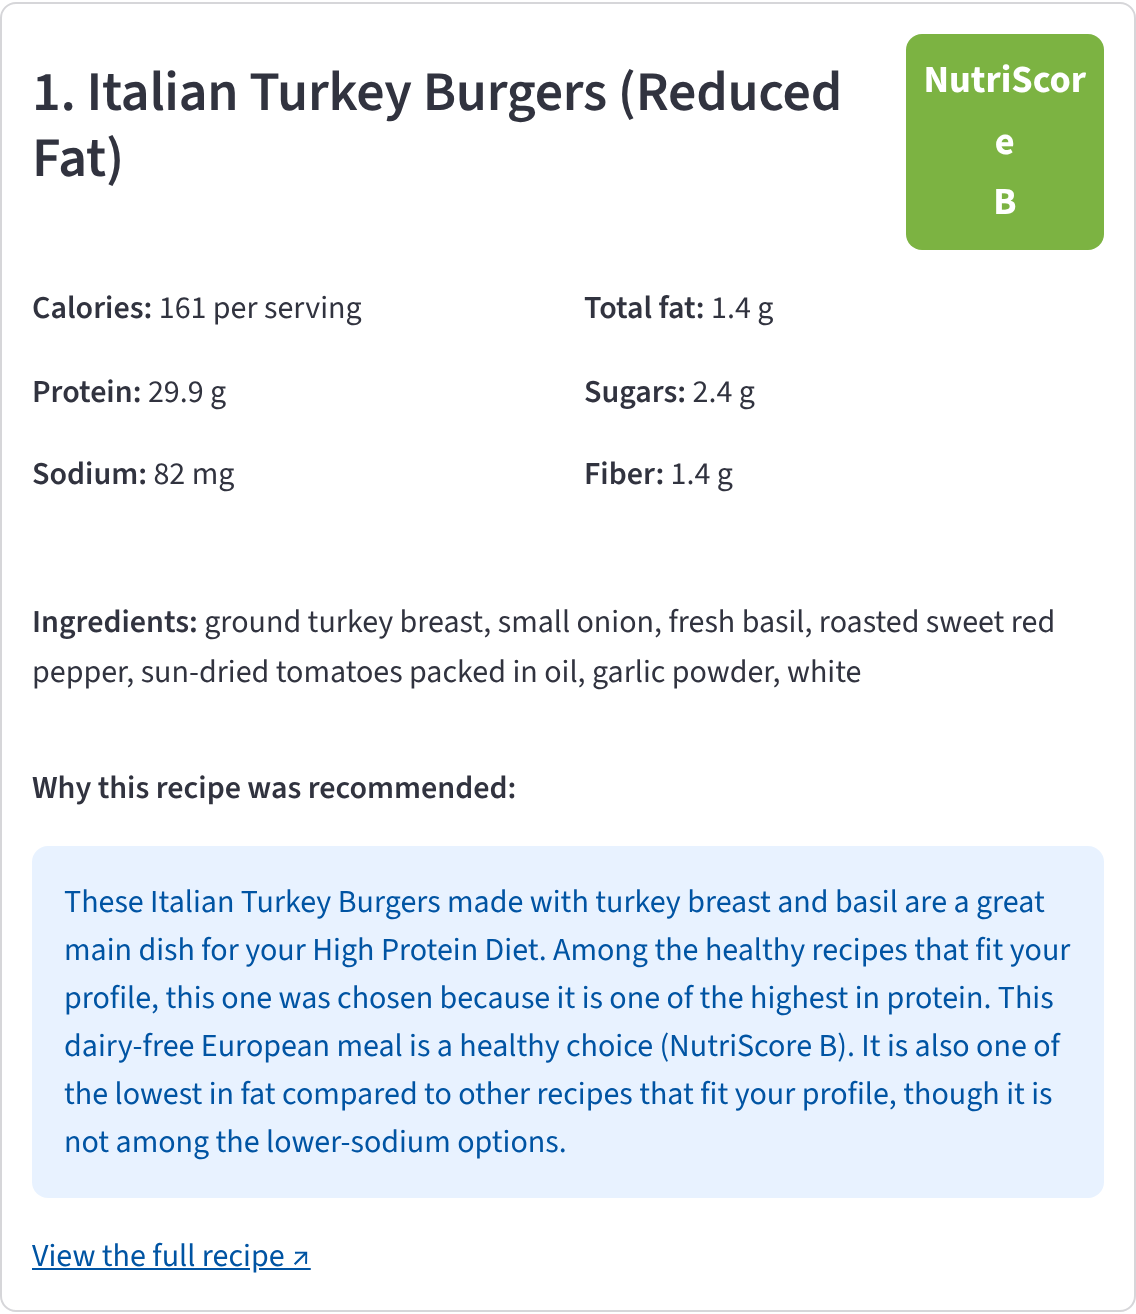
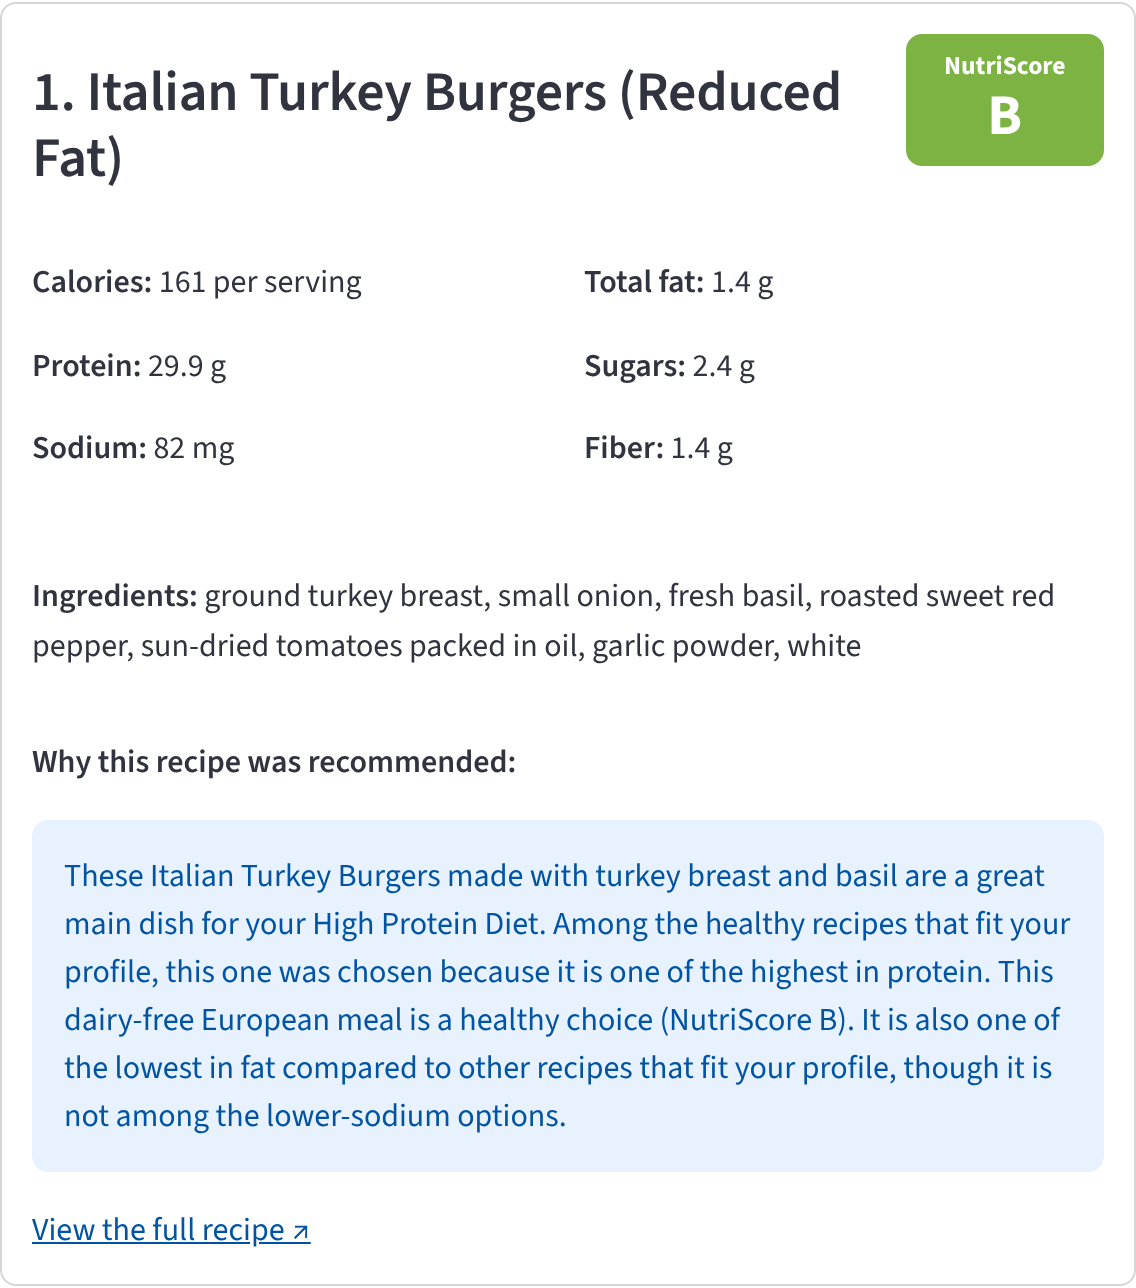
Rename notebook, update README

diff --git a/README.md b/README.md
@@ -1,136 +1,204 @@
-# Grounded LLM explanations for healthy food recommendations
+# LLM-Explanation
 
-Code and study materials for the master's thesis *Grounded LLM explanations for healthy food recommendations: a design science study of user perception and verification* 
-
-The project builds a recipe recommender that explains each recommendation in plain language with a large language model (LLM), checks every explanation against the facts it was generated from, and evaluates the explanations with users.
+Code and data for the master's thesis *Grounded LLM explanations for healthy food recommendations: a design science study of user perception and verification* 
+The repository holds a recipe recommender whose explanations are written by a large language model (LLM) and then checked, claim by claim, by two other LLMs acting as judges. It also holds the Streamlit app used in the user study. The explanations contain no numbers: exact nutrition values are shown in a separate panel, so every claim in the text can be checked against a single fact.
 
 ![Python 3.11](https://img.shields.io/badge/python-3.11-blue)
 ![Streamlit 1.57](https://img.shields.io/badge/streamlit-1.57-red)
 ![Licence: MIT](https://img.shields.io/badge/licence-MIT-green)
 
-## Contents
-
-- [Study design](#study-design)
-- [Repository structure](#repository-structure)
-- [The study application](#the-study-application)
-- [The pipeline notebook](#the-pipeline-notebook)
-- [Data](#data)
-- [Citation](#citation)
-- [Licence](#licence)
-
-## Study design
-
 ![Study design: the artefact, the human evaluation and the grounding verification](docs/images/study_design.png)
 
-The artefact recommends five recipes from the HUMMUS dataset to each of six personas, each with a distinct health goal. Gemma 4 31B writes a short explanation for every recommendation from a fixed set of verified facts. The explanations contain no numbers: exact nutrition values are shown in a separate panel instead.
+## Contents
 
-The explanations are evaluated in two layers:
+- [Choose how to start](#choose-how-to-start)
+- [Path 1: run the study app](#path-1-run-the-study-app)
+- [Path 2: read the pipeline](#path-2-read-the-pipeline)
+- [Path 3: re-run the pipeline](#path-3-re-run-the-pipeline)
+- [Layout](#layout)
+- [What is checked where](#what-is-checked-where)
+- [Data](#data)
+- [Limits](#limits)
+- [Troubleshooting](#troubleshooting)
+- [Use of generative AI](#use-of-generative-ai)
+- [Citing and licence](#citing-and-licence)
 
-1. **Human evaluation.** Participants answer one question about their main health goal, are matched to the persona with that goal, and rate that persona's five explanations on a twelve-item survey.
-2. **Grounding verification and judge validation.** Each explanation is split into claims. Two LLM judges from different model families check every claim against the facts given to the generator, and a third model decides their disagreements. The judges are then tested with 48 planted errors and against a blind annotation of 152 claims by three people.
+## Choose how to start
 
-## Repository structure
+| Path | You need | You get |
+| --- | --- | --- |
+| [1. Run the study app](#path-1-run-the-study-app) | Python 3.11 or later | The app exactly as participants used it, with the 30 frozen explanations |
+| [2. Read the pipeline](#path-2-read-the-pipeline) | A browser, or Jupyter | The full pipeline in one notebook, mapped to the thesis sections |
+| [3. Re-run the pipeline](#path-3-re-run-the-pipeline) | Python 3.11 or later, the HUMMUS recipe file, an OpenAI-compatible LLM endpoint and API keys | New recommendations, explanations and judge verdicts |
 
-```
-.
-├── app.py                        Welcome and consent page of the study app
-├── pages/
-│   ├── 1_Profile_Quiz.py         Health-goal question and persona matching
-│   ├── 2_Recommendations.py      Persona brief and five recipe cards
-│   ├── 3_Survey.py               Twelve-item survey and open question
-│   └── 4_Thank_You.py            Saves the response to Google Sheets
-├── data/
-│   └── explanations_FROZEN.csv   The 30 explanations shown to participants
-├── data_exploration.ipynb        The full pipeline, from data cleaning to judge validation
-├── docs/images/                  Figures used in this README
-├── requirements.txt              Packages for the study app
-└── requirements-notebook.txt     Additional packages for the notebook
-```
-
-## The study application
-
-The app is a multi-page Streamlit application. It is kept exactly as it was used in the study (September 2026).
-
-<p align="center">
-  <img src="docs/images/app_recipe_card.png" alt="A recipe card from the study application" width="460">
-</p>
-
-<p align="center"><em>A recipe card for the high-protein persona: Nutri-Score badge, exact nutrition values, ingredients and the number-free explanation.</em></p>
-
-### Run it locally
+## Path 1: run the study app
 
 ```bash
-git clone https://github.com/dansaari/Food-explainer.git
-cd Food-explainer
+git clone https://github.com/dansaari/LLM-Explanation.git
+cd LLM-Explanation
 python -m venv venv
 source venv/bin/activate          # on Windows: venv\Scripts\activate
 pip install -r requirements.txt
 streamlit run app.py
 ```
 
-The app reads its explanations from `data/explanations_FROZEN.csv`, so it runs without any API keys. Saving responses needs a Google service account. Without one, the app runs normally and the last page reports that the response could not be saved. To enable saving, copy `.streamlit/secrets.toml.example` to `.streamlit/secrets.toml` and fill in your own values. The secrets file is excluded from version control.
+The app opens in your browser. Going through it takes 7 to 10 minutes:
 
-## The pipeline notebook
+1. **Welcome and consent** (`app.py`)
+2. **Profile quiz** (`pages/1_Profile_Quiz.py`): one question about your main health goal, which matches you to the persona with that goal
+3. **Recommendations** (`pages/2_Recommendations.py`): the persona's profile and five recipe cards, each with a Nutri-Score badge, nutrition values, ingredients and the explanation
+4. **Survey** (`pages/3_Survey.py`): twelve statements rated on a five-point scale, plus one open question
+5. **Thank you** (`pages/4_Thank_You.py`): saves the response
 
-`data_exploration.ipynb` contains the whole pipeline. Its sections map to the thesis as follows.
+<p align="center">
+  <img src="docs/images/app_recipe_card.png" alt="A recipe card from the study application" width="460">
+</p>
 
-| Notebook section | What it does | Thesis |
+The app reads its explanations from `data/explanations_FROZEN.csv`, so it needs no API keys. It is kept exactly as it was used in the study (September 2026).
+
+Saving responses needs a Google service account. Without one, the app still runs, and the last page reports that the response could not be saved. To enable saving, copy `.streamlit/secrets.toml.example` to `.streamlit/secrets.toml` and fill in your own values.
+
+## Path 2: read the pipeline
+
+`LLM_explanation` contains the whole pipeline, from loading the recipes to validating the judges. GitHub displays it directly. The outputs are cleared, so it shows the code and its explanations but not the printed results.
+
+| Section | What it does | Thesis |
 | --- | --- | --- |
-| 1 to 2 | Load and clean HUMMUS | 3.4.1 |
-| 3 to 6 | Tag mappings, personas, recommender, diversity check | 3.4.2, Appendix 1 |
-| 7 | Explanation generation (30 study and 72 validation explanations) | 3.4.3 |
-| 8 | Functional tests of the hard constraints | Appendix 1 |
-| 9 to 13 | Judge setup, claim-level judging, grounding verdicts, agreement | 3.4.4, 3.5.2, 4.3 |
+| 1 to 2 | Load and clean the HUMMUS recipes | 3.4.1 |
+| 3 to 6 | Tag mappings, the six personas, the recommender, diversity check | 3.4.2, Appendix 1 |
+| 7 | Fact extraction and explanation generation (30 study and 72 validation explanations) | 3.4.3 |
+| 8 | Functional tests of the recommender's hard constraints | Appendix 1 |
+| 9 to 13 | Judge setup, claim-level judging, grounding verdicts, agreement between judges | 3.4.4, 3.5.2, 4.3 |
 | 14 | Adversarial cases with planted errors | 3.5.2, 4.4.4 |
 | 15 | Freezing the study set | 3.4.3 |
-| 16 | Annotation workbook, development findings, third judge | 3.5.2, 4.4 |
+| 16 | Annotation workbook, development findings, third model for disagreements | 3.5.2, 4.4 |
 
-### Models
+The 30 explanations participants saw are in `data/explanations_FROZEN.csv`, together with the facts each was generated from (key ingredients, dish type, goal ranking, cuisine match, optional facts) and the nutrition values shown in the app.
 
-All models were accessed through Lehmus AI, an OpenAI-compatible gateway provided by the university.
+## Path 3: re-run the pipeline
 
-| Role | Model | Settings |
-| --- | --- | --- |
-| Generator | Gemma 4 31B | Default temperature; one model for the whole set |
-| Judge 1 | Qwen3.6-35B-A3B | Temperature 0 |
-| Judge 2 | GPT-OSS 120B | Temperature 0 |
-| Third model for disagreements | Muse-Glimmer-30B-NVFP4 | Temperature 0 |
-
-LLM output varies between runs, so a re-run will not reproduce the frozen explanations word for word.
-
-### Run it
+**1. Install the packages.**
 
 ```bash
 pip install -r requirements.txt -r requirements-notebook.txt
 ```
 
-Create a `.env` file in the repository root (excluded from version control):
+**2. Add the recipe data.** Download `pp_recipes.csv` from the [HUMMUS data set repository](https://gitlab.com/felix134/connected-recipe-data-set) and place it in `data/`.
+
+**3. Add your API keys.** Create a `.env` file in the repository root. It is excluded from version control.
 
 ```
 LEHMUS_API_KEY=...
 LEHMUS_BASE_URL=...
-LEHMUS_API_KEY_2=...      # only needed for the third model in section 16
+LEHMUS_API_KEY_2=...      # only for the third model in section 16
 ```
 
-Then place the HUMMUS recipe file in `data/` (see below) and run the notebook from the top.
+**4. Point the notebook at your models.** The study used Lehmus AI, an OpenAI-compatible gateway provided by the university that is not publicly accessible. To use another endpoint, set its URL as `LEHMUS_BASE_URL` and change the model IDs here:
+
+| Role | Model in the study | Where to change it |
+| --- | --- | --- |
+| Generator | Gemma 4 31B | `GENERATION_MODEL`, section 7 |
+| Judge 1 | Qwen3.6-35B-A3B | `JUDGE_MODELS['qwen']`, section 9 |
+| Judge 2 | GPT-OSS 120B | `JUDGE_MODELS['gpt-oss']`, section 9 |
+| Third model for disagreements | Muse-Glimmer-30B-NVFP4 | `THIRD_JUDGE_MODEL`, section 16 |
+
+The judges run at temperature 0. The generator uses the endpoint's default temperature.
+
+**5. Run the notebook from the top.** Each section writes its output to `data/` and the next section reads it from there. Two things to know before you start:
+
+- **Section 15 overwrites `data/explanations_FROZEN.csv`.** That is the file the app shows. Skip the section, or back the file up first, if you want to keep the study set.
+- **The comparison with human annotation in section 16** needs an annotation workbook filled in by people, which is not in the repository. Without it, the section runs the third model and skips the comparison.
+
+LLM output varies between runs, so a re-run produces new explanations rather than the study's exact wording.
+
+## Layout
+
+```
+.
+├── app.py                        Welcome and consent page of the study app
+├── pages/
+│   ├── 1_Profile_Quiz.py         Health-goal question and persona matching
+│   ├── 2_Recommendations.py      Persona profile and five recipe cards
+│   ├── 3_Survey.py               Twelve-item survey and open question
+│   └── 4_Thank_You.py            Saves the response to Google Sheets
+├── data/
+│   └── explanations_FROZEN.csv   The 30 explanations shown to participants
+├── LLM_explanation        The full pipeline, sections 1 to 16
+├── docs/images/                  Figures used in this README
+├── .streamlit/
+│   └── secrets.toml.example      Settings needed to save responses
+├── requirements.txt              Packages for the study app
+├── requirements-notebook.txt     Additional packages for the notebook
+├── CITATION.cff                  Citation metadata
+└── LICENSE                       MIT licence
+```
+
+New to the project? Read the recipe cards in the app first, then notebook sections 7 (how an explanation is built) and 10 (how a claim is judged).
+
+## What is checked where
+
+| What | Where |
+| --- | --- |
+| Recommended recipes contain none of the persona's allergens or disliked ingredients | Section 8 |
+| Recommended recipes meet the persona's dietary restrictions, sodium limit and minimum calories for a main meal | Section 8 |
+| Each claim in an explanation is supported by its fact, and the text contains no nutrient numbers or absolute nutrient levels | Sections 10 to 12 |
+| The two judges agree with each other | Section 13 |
+| The judges catch errors planted on purpose (48 cases, eight error types) | Section 14 |
+| The judges agree with three human annotators; a third model decides the judges' disagreements | Section 16 |
 
 ## Data
 
 | Data | In this repository | Notes |
 | --- | --- | --- |
-| HUMMUS recipes (`pp_recipes.csv`) | No | Download from the [HUMMUS data set repository](https://gitlab.com/felix134/connected-recipe-data-set) and place it in `data/`. Its terms of use apply. |
-| Frozen study explanations | Yes | `data/explanations_FROZEN.csv`: the 30 explanations, their facts and nutrition values. Recipe titles and links refer to Food.com. |
+| HUMMUS recipes (`pp_recipes.csv`) | No | Download from the [HUMMUS data set repository](https://gitlab.com/felix134/connected-recipe-data-set). Its terms of use apply. |
+| Frozen study explanations | Yes | `data/explanations_FROZEN.csv`. Recipe titles and links refer to Food.com. |
 | Validation explanations, claims, judge verdicts, adversarial cases | No | Produced by the notebook. |
-| Survey responses | No | Individual responses are not published. Aggregate results are reported in the thesis. |
+| Survey responses | No | Individual responses are not published. Aggregate results are in the thesis. |
 
-No personal information was collected. Participants were matched to a persona by their answer to one question, and no participant data was sent to a language model.
+No personal information was collected in the study. Participants were matched to a persona by their answer to one question, and no participant data was sent to a language model.
 
+## Limits
 
-## Citation
+- **The models were reached through a private gateway.** The model IDs in the notebook only work there, so a re-run needs your own endpoint and models (see Path 3).
+- **LLM output is not deterministic.** A re-run will not reproduce the frozen explanations word for word, even with the same models.
+- **Grounding is checked against the facts given to the generator, not against reality.** If the HUMMUS data is wrong, a grounded explanation repeats the error.
+- **Five claim categories are checked.** The up to two optional facts an explanation may add, such as "quick to prepare", are not judged.
+- **Responses are saved only to Google Sheets.** There is no local storage option.
+- **The study had 18 participants from a convenience sample.** Its findings are indicative only (see the thesis).
+
+## Troubleshooting
+
+| Symptom | Cause | Fix |
+| --- | --- | --- |
+| The app shows "No explanations found" | The app was started from another folder | Run `streamlit run app.py` from the repository root |
+| The last page says there was a technical issue recording the response | No Google service account is set up | Expected when running locally. Add `.streamlit/secrets.toml` to save responses. |
+| `pip` cannot install `pandas==3.0.2` | Python is older than 3.11 | Use Python 3.11 or later |
+| `FileNotFoundError: data/pp_recipes.csv` | The HUMMUS recipe file is missing | Download it (see Data) |
+| `AssertionError: LEHMUS_API_KEY_2 is not set` | Section 16 needs a second key for the third model | Add it to `.env` and restart the kernel, or skip section 16 |
+| A model is not found, or the API returns 404 | The model IDs belong to the study's gateway | Change the model IDs (see Path 3, step 4) |
+
+## Use of generative AI
+
+Generative AI appears in this project in two roles, and they are kept apart here.
+
+**As part of the method.** The artefact itself uses language models: Gemma 4 31B writes the explanations, and Qwen3.6-35B-A3B, GPT-OSS 120B and Muse-Glimmer-30B-NVFP4 check them. This use is the subject of the research and is described in the thesis.
+
+**As a development aid.** Claude (Anthropic), used through claude.ai in 2026, helped write the code and documentation in this repository:
+
+| Part | How AI was used |
+| --- | --- |
+| Pipeline notebook code (`LLM_explanation`) | Claude drafted parts of the code. I reviewed, ran and changed it. |
+| Study application (`app.py`, `pages/`) | Claude drafted parts of the code. I reviewed, tested and changed it. |
+| Notebook text cells, README, `LICENSE`, `CITATION.cff`, requirements files, secrets example | Drafted by Claude in October 2026 and reviewed by me. |
+| Study design figure (`docs/images/study_design.png`) | Drawn by Claude from the study design in the thesis. I checked the numbers against the results. |
+
+The research design and the decisions behind the artefact are my own and are justified in the thesis. These include the recommender rules and weights, the number-free explanation design, the claim categories, the judge rules and the survey. I checked the AI-drafted code by running it and inspecting its output, using the checks listed in [What is checked where](#what-is-checked-where).
+
+## Citing and licence
 
 If you use this code, please cite the thesis:
 
-> Daniel Saari. 2026. Grounded LLM explanations for healthy food recommendations: a design science study of user perception and verification. Master's thesis. Oulu University of Applied Sciences.
+> Saari, D. 2026. Grounded LLM explanations for healthy food recommendations: a design science study of user perception and verification. Master's thesis. Oulu University of Applied Sciences.
 
 GitHub also offers a citation from `CITATION.cff` under **Cite this repository** on the repository page.
 
@@ -138,6 +206,4 @@ The recipe data comes from:
 
 > Bölz, F., Nurbakova, D., Calabretto, S., Gerl, A., Brunie, L. & Kosch, H. 2023. HUMMUS: A linked, healthiness-aware, user-centered and argument-enabling recipe data set for recommendation. In Proceedings of the 17th ACM Conference on Recommender Systems (RecSys '23). ACM, Singapore.
 
-## Licence
-
-The code and the frozen explanations are released under the [MIT Licence](LICENSE). The HUMMUS data set and the Food.com recipes it is built on are not part of this licence and remain subject to their own terms.
+The code and the frozen explanations are released under the [MIT Licence](LICENSE). The HUMMUS data set and the Food.com recipes it is built on are not covered by this licence and remain subject to their own terms.
